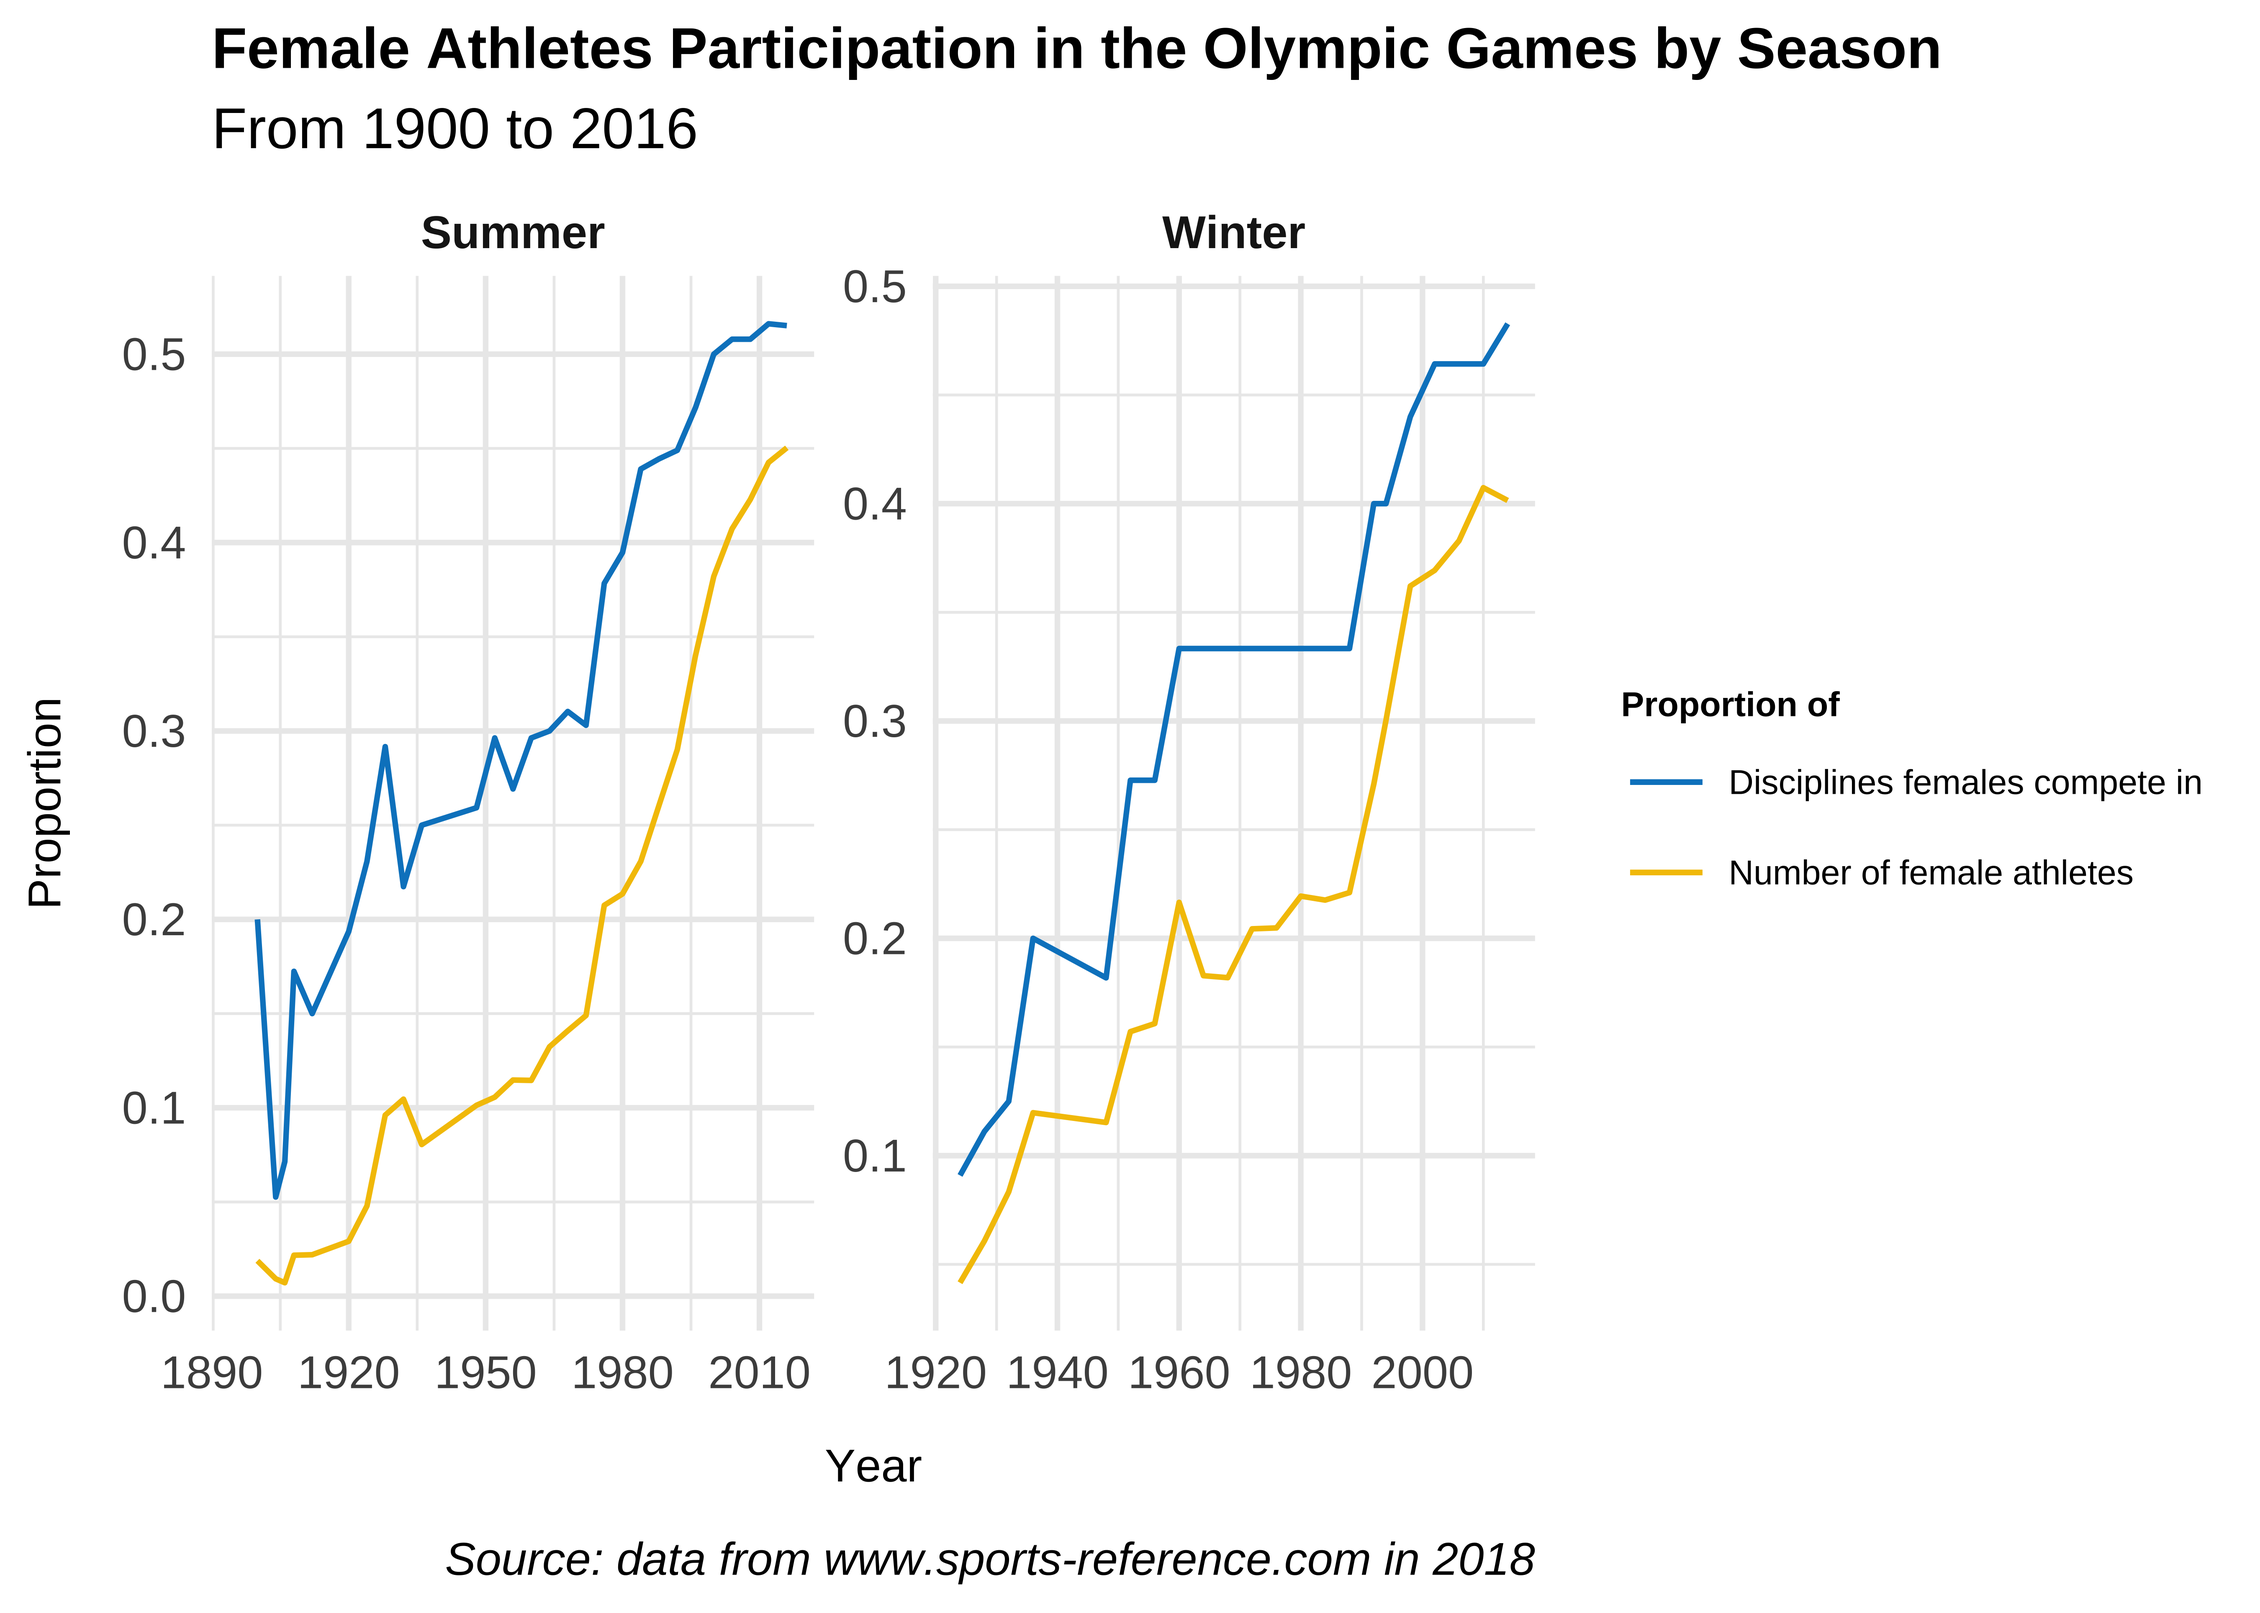
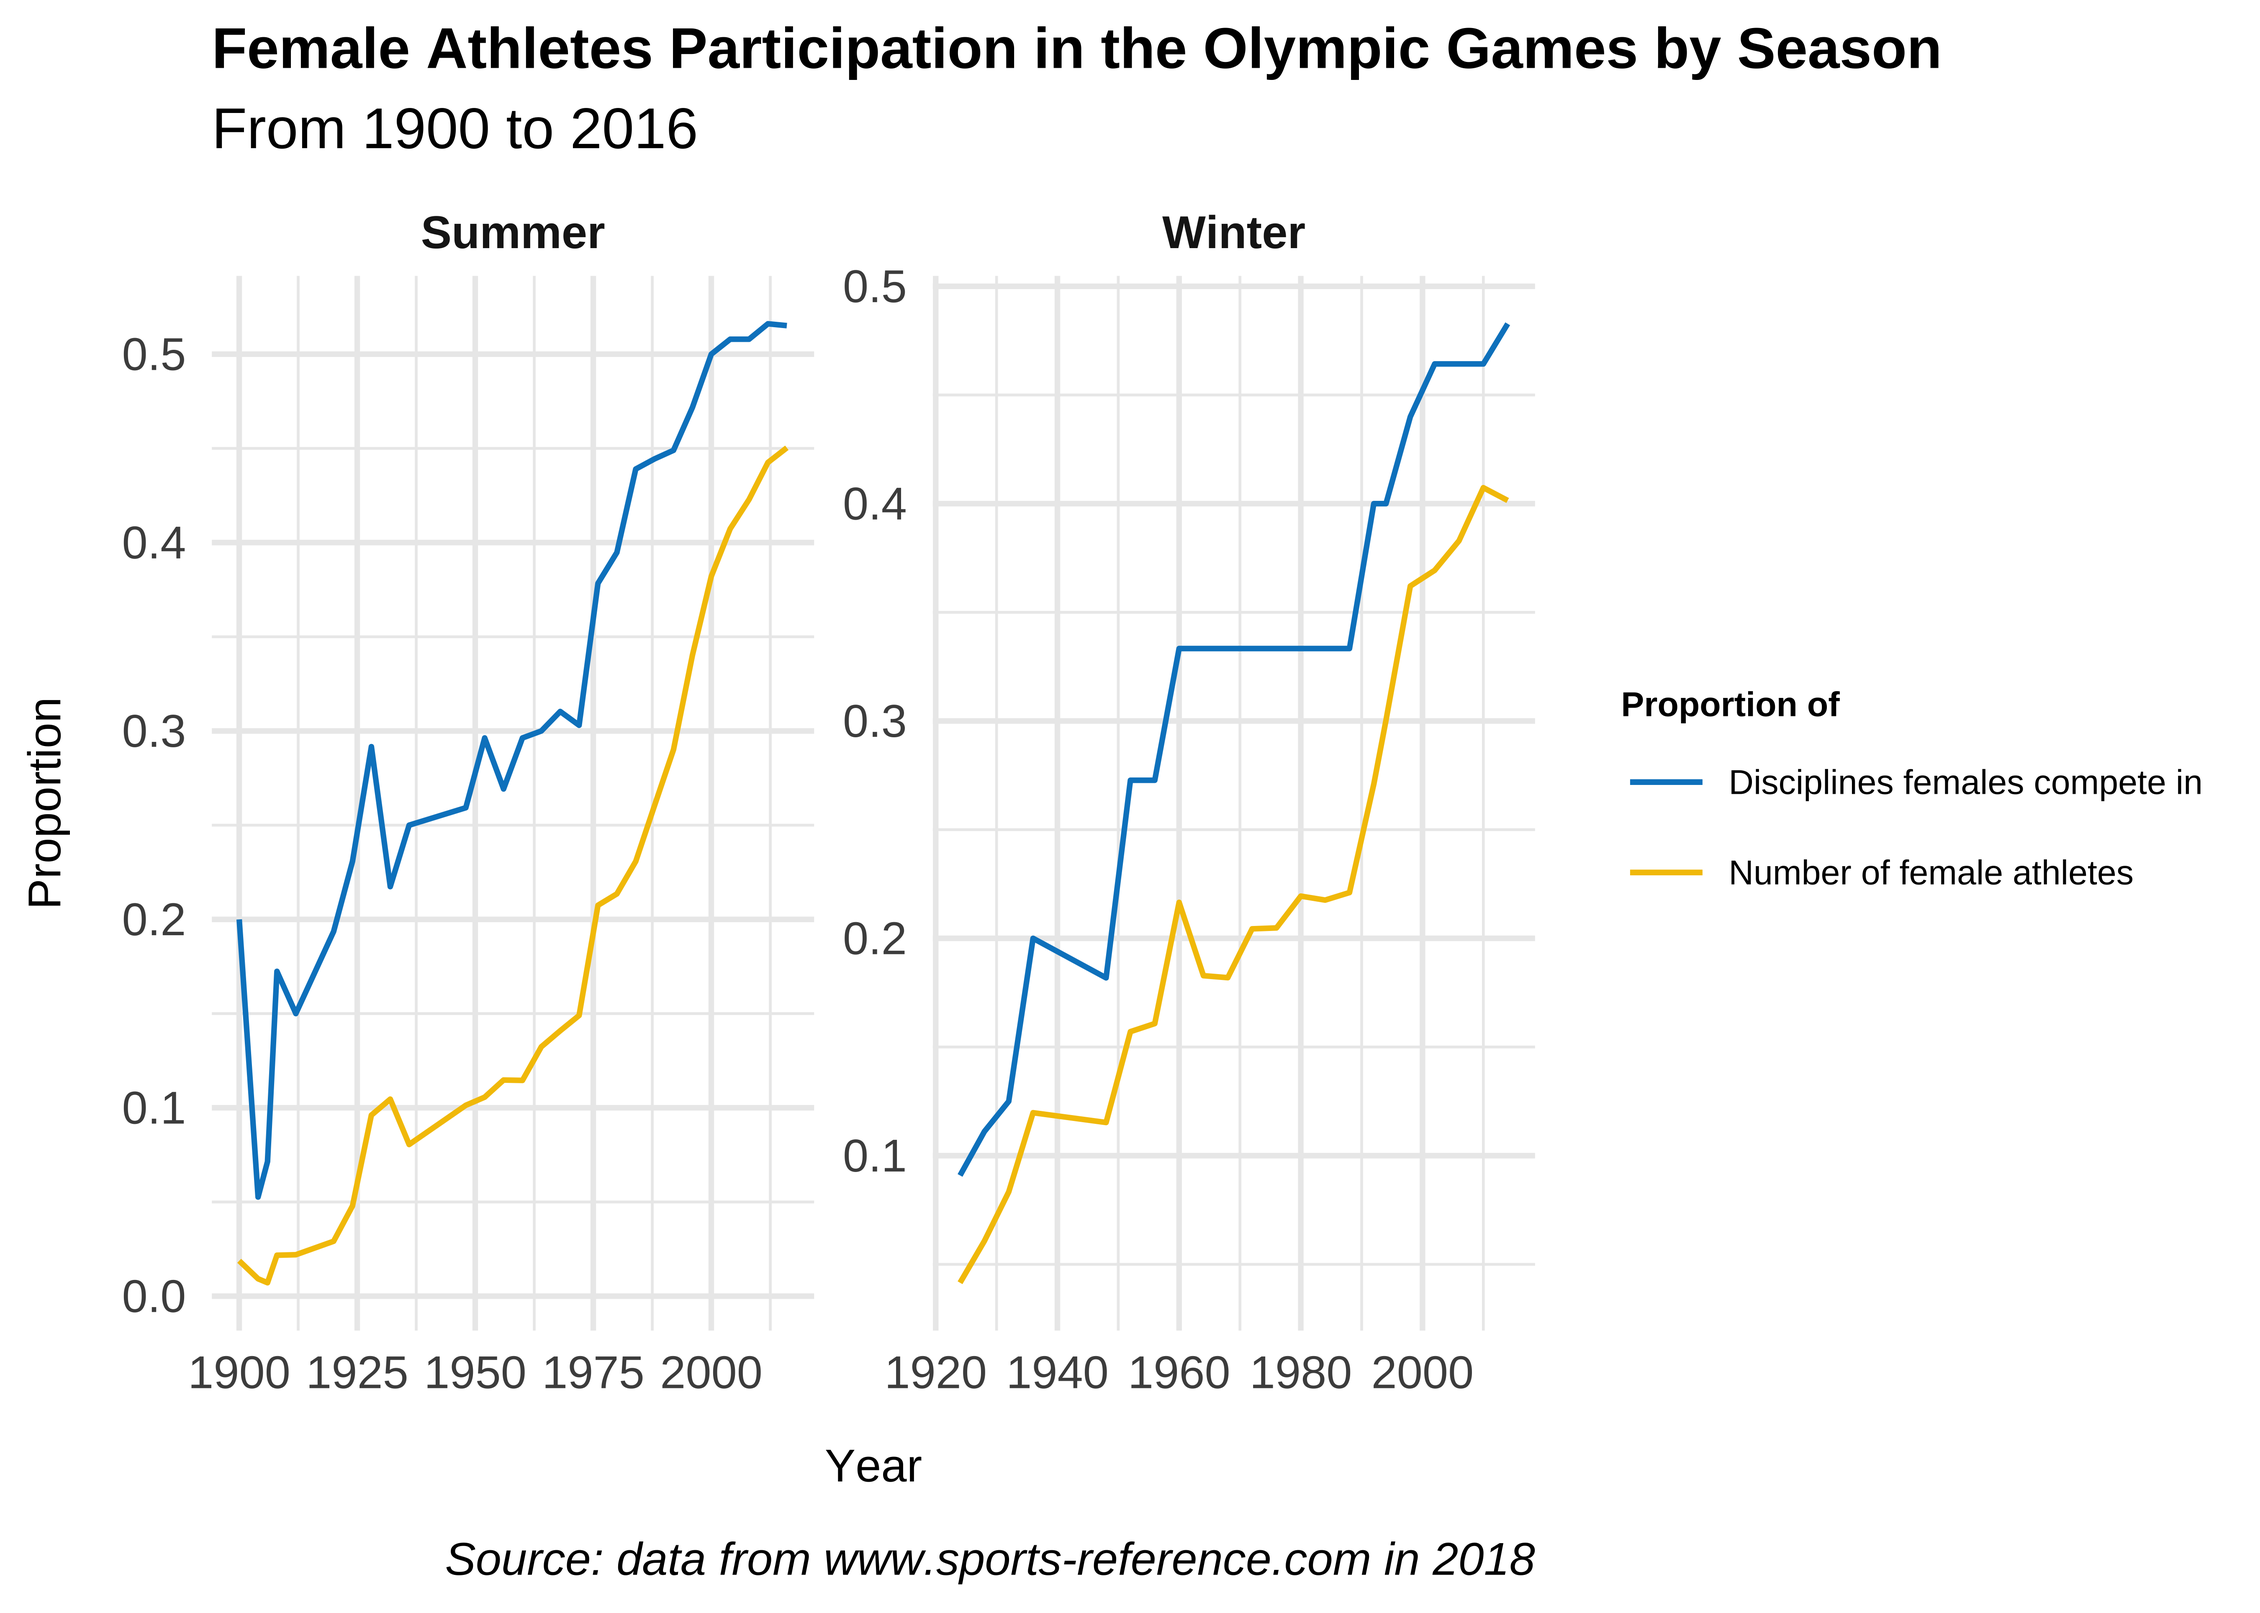
Final review and revise the year variable for q2p1

Changed region(s): [[0.0933, 0.1868, 0.3422, 0.8093], [0.0622, 0.8405, 0.3733, 0.8716]]

diff --git a/README.md b/README.md
@@ -303,12 +303,12 @@ plot. This plot comes from a summarized table with the average
 proportion of female athletes and the proportion of games female
 athletes participate in over the years. The two measures are positioned
 on the y-axis and illustrated in different colors - and they are
-manually set to be in Olympic-logo colors! The year for each event is on
-the x-axis. The season information is demonstrated through two different
-facets. We choose the line plot format first because it can best
-visually represent the trend information. Second, it has an advantage in
-terms of data-ink-ratio for visualization, therefore it helps simplify
-the complexities in our aggregated data.
+manually set to be in Olympic-logo colors\! The year for each event is
+on the x-axis. The season information is demonstrated through two
+different facets. We choose the line plot format first because it can
+best visually represent the trend information. Second, it has an
+advantage in terms of data-ink-ratio for visualization, therefore it
+helps simplify the complexities in our aggregated data.
 
 For the second part, “Which countries have the highest numbers of female
 medalists or enjoy the most contributions from female athletes over the
@@ -332,6 +332,7 @@ quantity through visualization.
 ``` r
 # Create a summarized table for participation by gender for each season
 participate_sex <- olympics_joined %>% 
+  filter(year >= 1900) %>%
   group_by(year, season, sex) %>%
   summarize(count_sex = n_distinct(id), 
             count_game = n_distinct(sport), .groups = "drop")%>% 
@@ -488,7 +489,7 @@ Our presentation can be found [here](presentation/presentation.html).
 ## Data
 
 rgriffin, 2018, `olympics.csv` from
-[Kaggle](https://www.kaggle.com/datasets/heesoo37/120-years-of-olympic-history-athletes-and-results?select=noc_regions.csv)
+[Kaggle](https://www.kaggle.com/datasets/heesoo37/120-years-of-olympic-history-athletes-and-results?select=noc_regions.csv).
 
 Vincent Arel-Bundock, 2022, `countrycode` package version 1.3.1 – [See
 documentation
